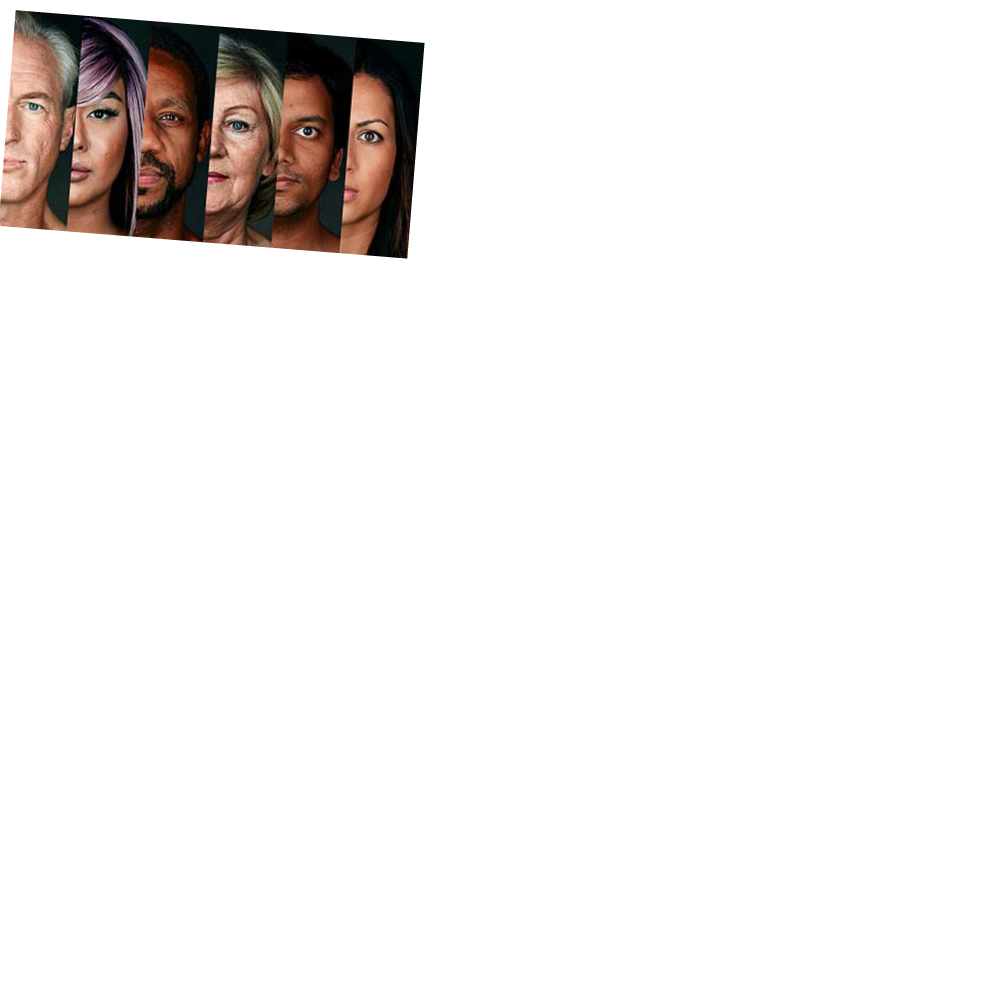
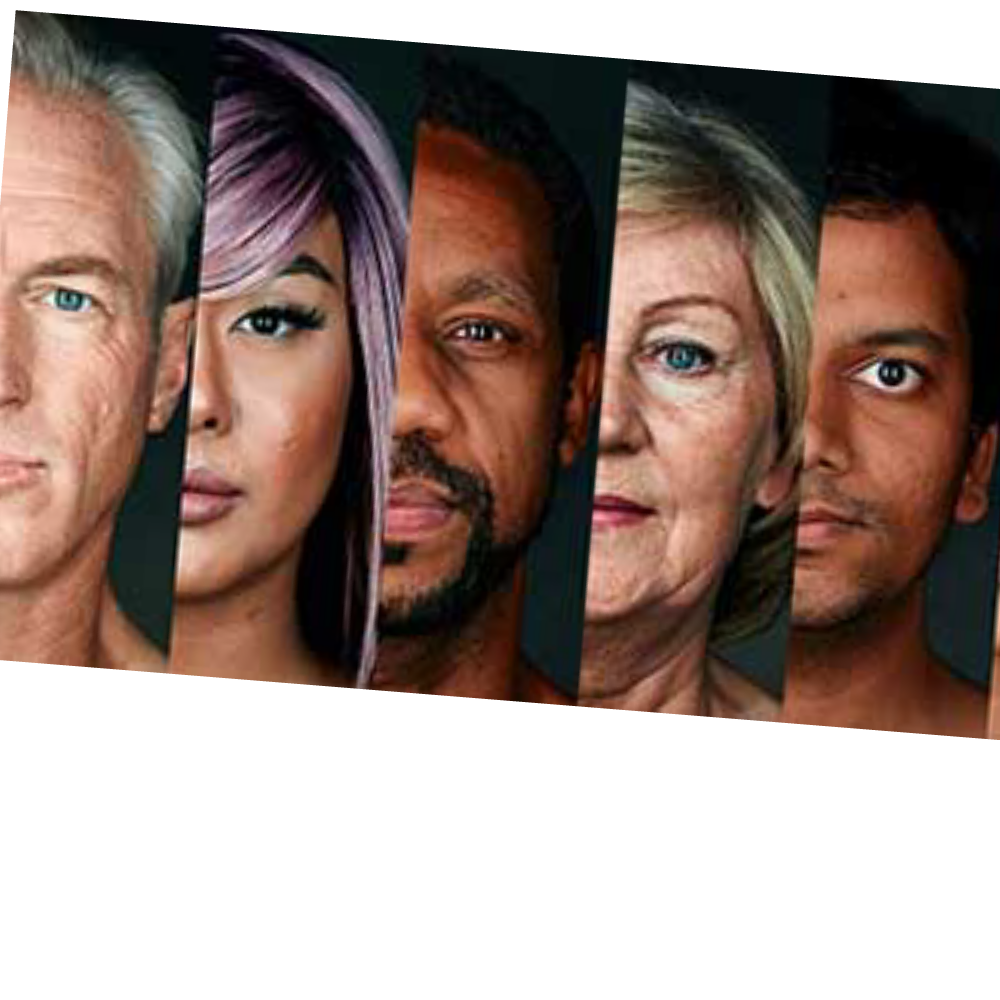
Scale bitmaps for the screen density
Fixes #71

diff --git a/lottie/src/main/java/com/airbnb/lottie/ImageAssetBitmapManager.java b/lottie/src/main/java/com/airbnb/lottie/ImageAssetBitmapManager.java
@@ -55,11 +55,15 @@ class ImageAssetBitmapManager {
               " Set it with LottieComposition#setImagesFolder or LottieDrawable#setImagesFolder");
         }
         is = context.getAssets().open(imagesFolder + imageAsset.getFileName());
-        bitmap = BitmapFactory.decodeStream(is);
-        bitmaps.put(id, bitmap);
       } catch (IOException e) {
         Log.w(L.TAG, "Unable to open asset.", e);
+        return null;
       }
+      BitmapFactory.Options opts = new BitmapFactory.Options();
+      opts.inScaled = true;
+      opts.inDensity = 160;
+      bitmap = BitmapFactory.decodeStream(is, null, opts);
+      bitmaps.put(id, bitmap);
     }
     return bitmap;
   }
